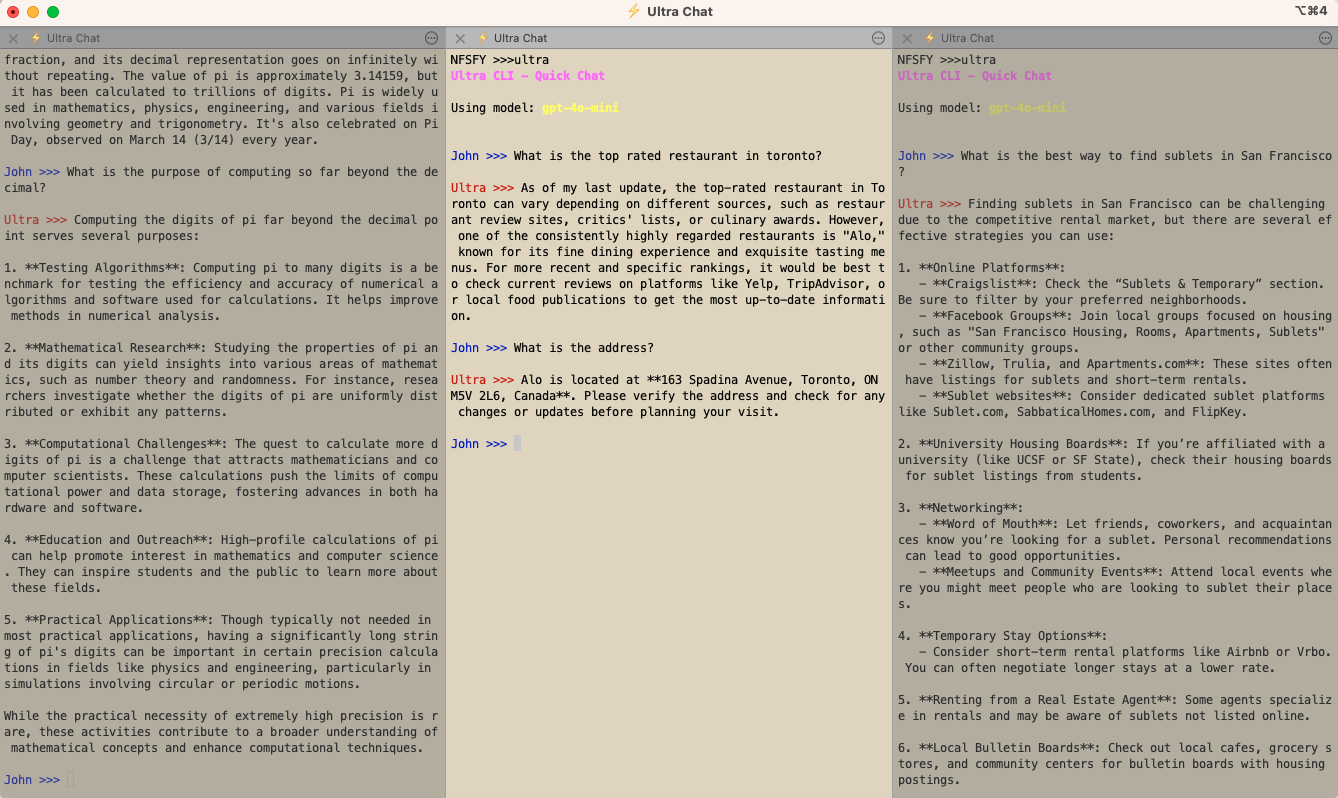
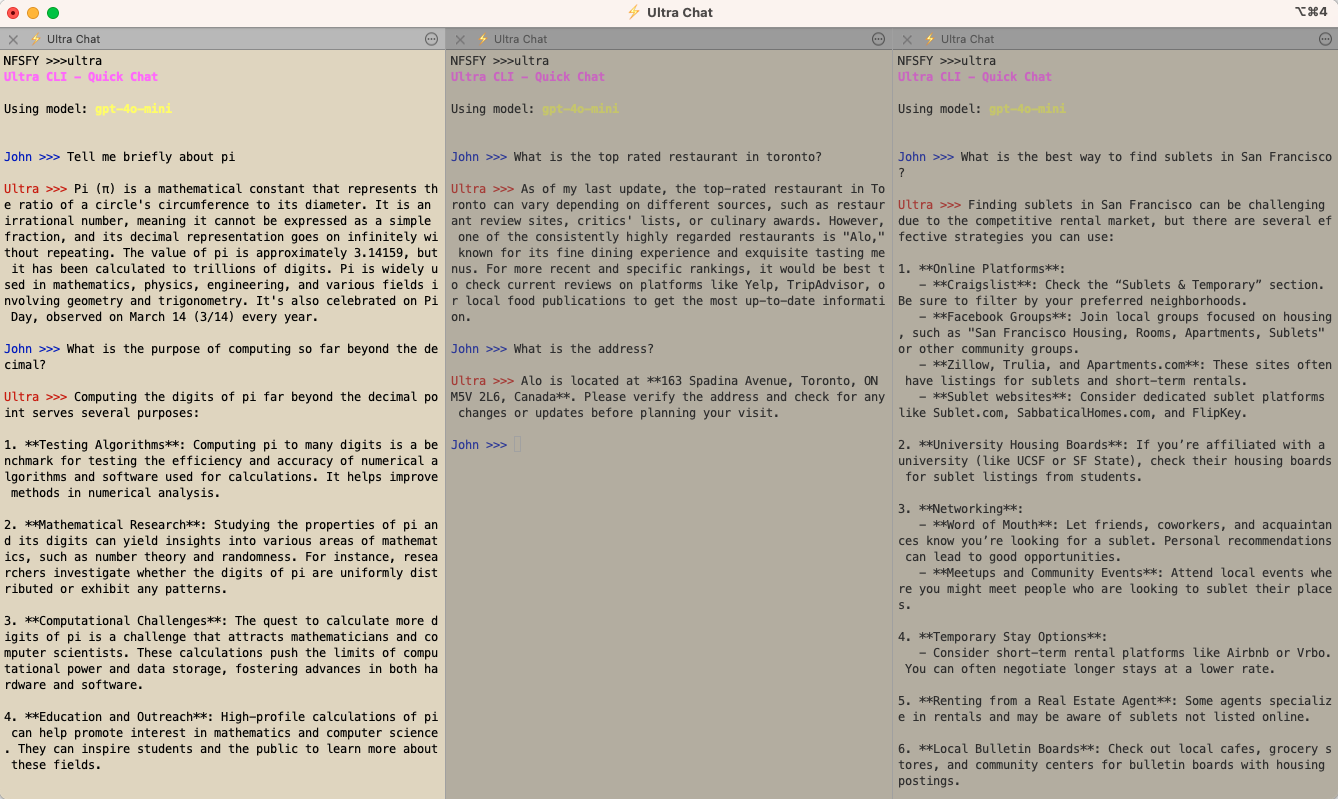
changed demo image

diff --git a/src/ultra/cli.py b/src/ultra/cli.py
@@ -1,4 +1,5 @@
 import sys
+import os
 from rich.console import Console
 
 from ultra.app import UltraApp
@@ -11,13 +12,31 @@ def main():
     args = sys.argv[1:]
     
     if len(args) == 0:
-        # No subcommands => Show welcome + model selection
-        from ultra.app import run_interactive_welcome
-        run_interactive_welcome()
+        # No subcommands => Show quick start with default model
+        # Set terminal title
+        print("\033]0;⚡ Ultra Chat\007", end="", flush=True)
+        
+        # Start chat with default model
+        console.print("[bold magenta]Ultra CLI - Quick Chat[/bold magenta]")
+        app = UltraApp()
+        # We'll skip the selection and pick a default
+        # e.g. "openai" with "gpt-3.5-turbo"
+        provider = app.initialize_provider("openai")
+        app.current_provider = provider
+        app.current_model = provider.get_cheapest_model()
+        app.new_session()
+        app.chat_loop()
         return
 
     subcommand = args[0]
-    if subcommand == "chat":
+    if subcommand == "models":
+        # Show welcome + model selection
+        from ultra.app import run_interactive_welcome
+        run_interactive_welcome()
+    elif subcommand == "chat":
+        # Set terminal title
+        print("\033]0;⚡ Ultra Chat\007", end="", flush=True)
+        
         # Start chat with default model
         console.print("[bold magenta]Ultra CLI - Quick Chat[/bold magenta]")
         app = UltraApp()
@@ -30,4 +49,4 @@ def main():
         app.chat_loop()
     else:
         console.print(f"[red]Unknown command: {subcommand}[/red]")
-        console.print("Available commands: (none) / chat")
+        console.print("Available commands: models / chat")

diff --git a/src/ultra/app.py b/src/ultra/app.py
@@ -144,6 +144,9 @@ def run_interactive_welcome():
     """
     Called when user types 'ultra' with no subcommands.
     """
+    # Set terminal title
+    print("\033]0;⚡ Ultra Chat\007", end="", flush=True)
+    
     print_ascii_art()
     console.print("Welcome to Ultra CLI. Type /quit at any time to exit.\n")
     app = UltraApp()
